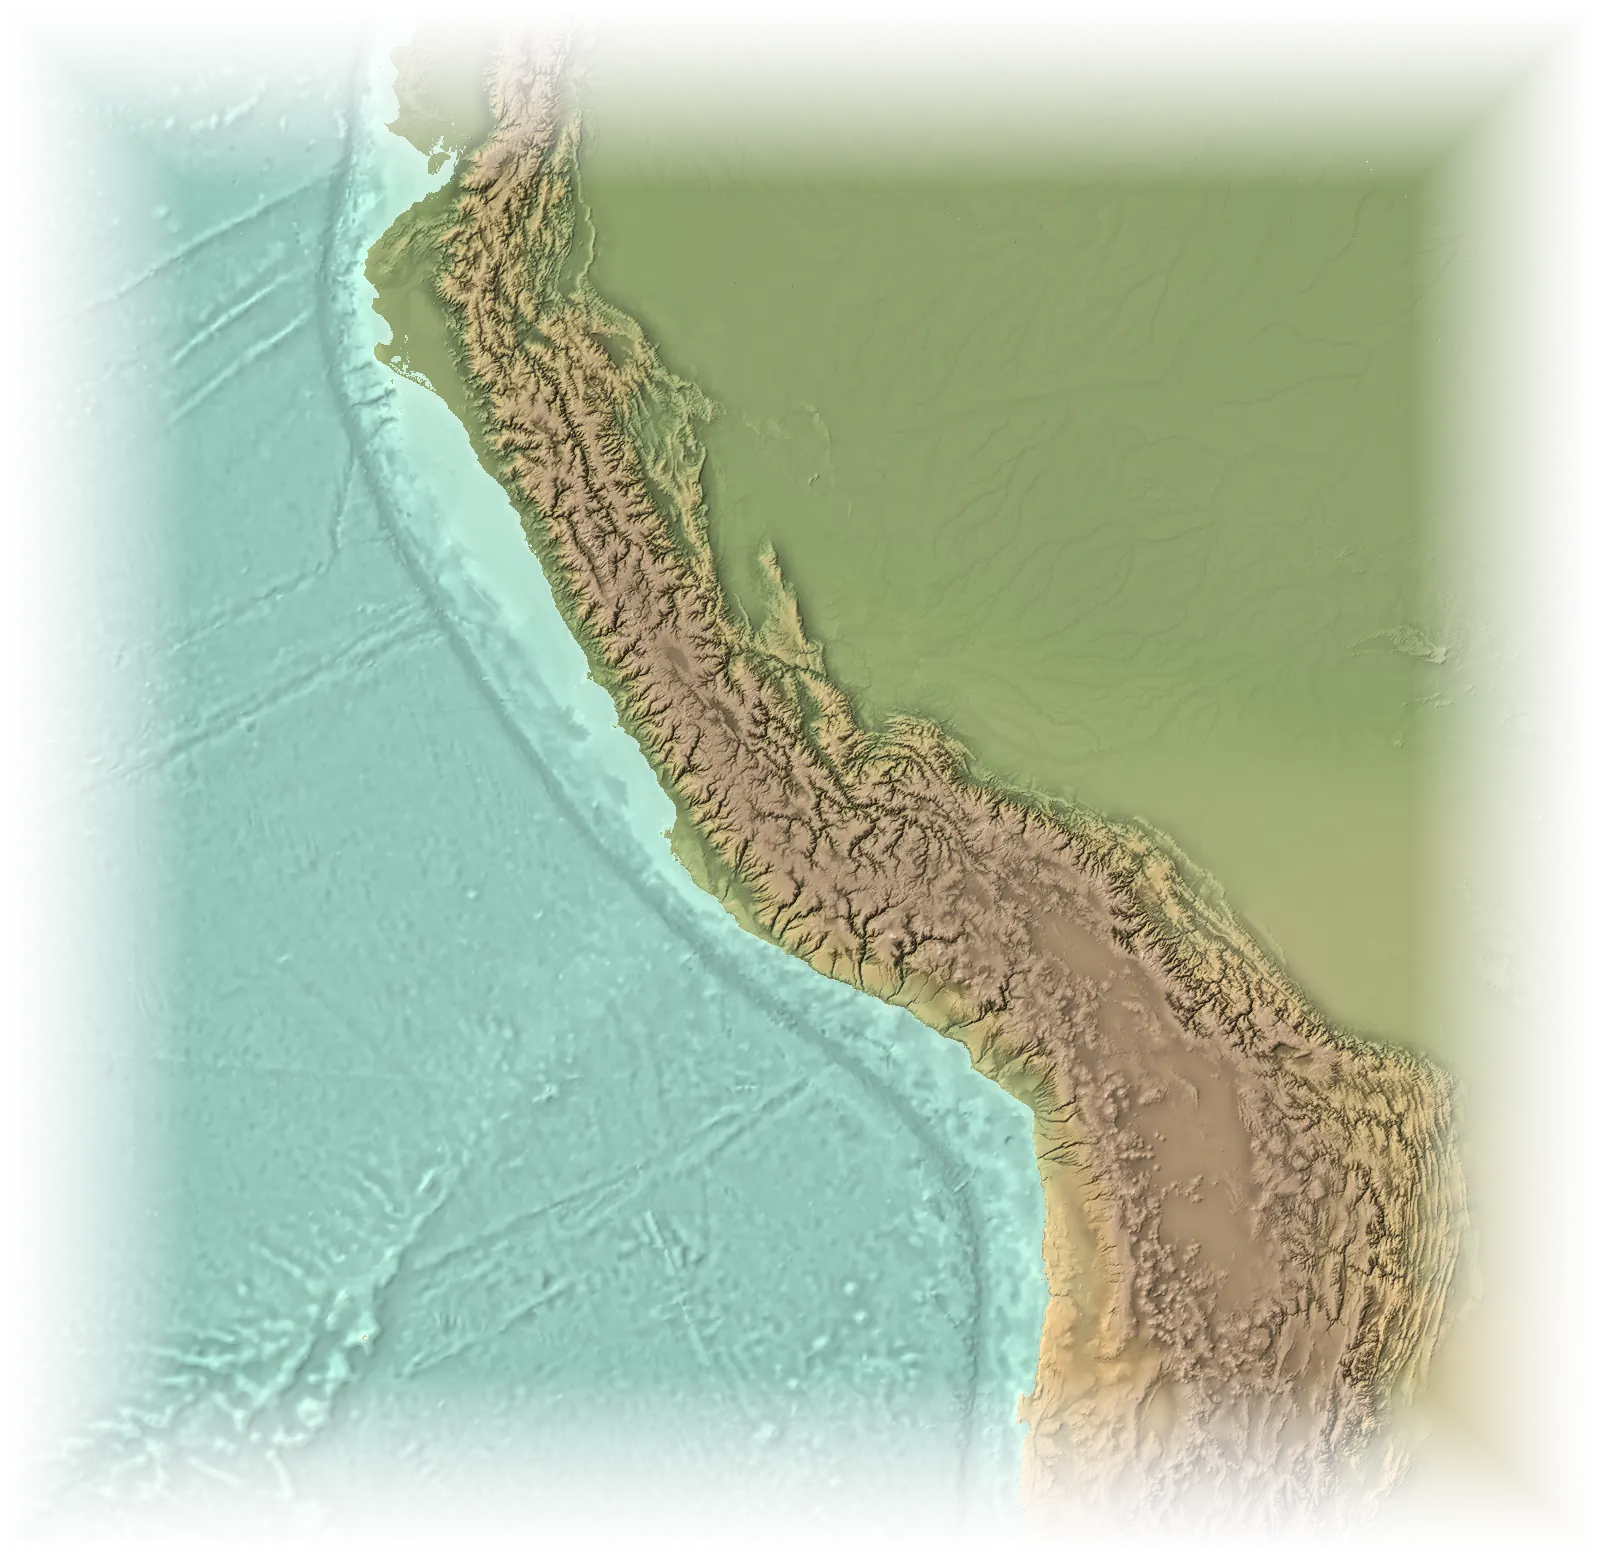
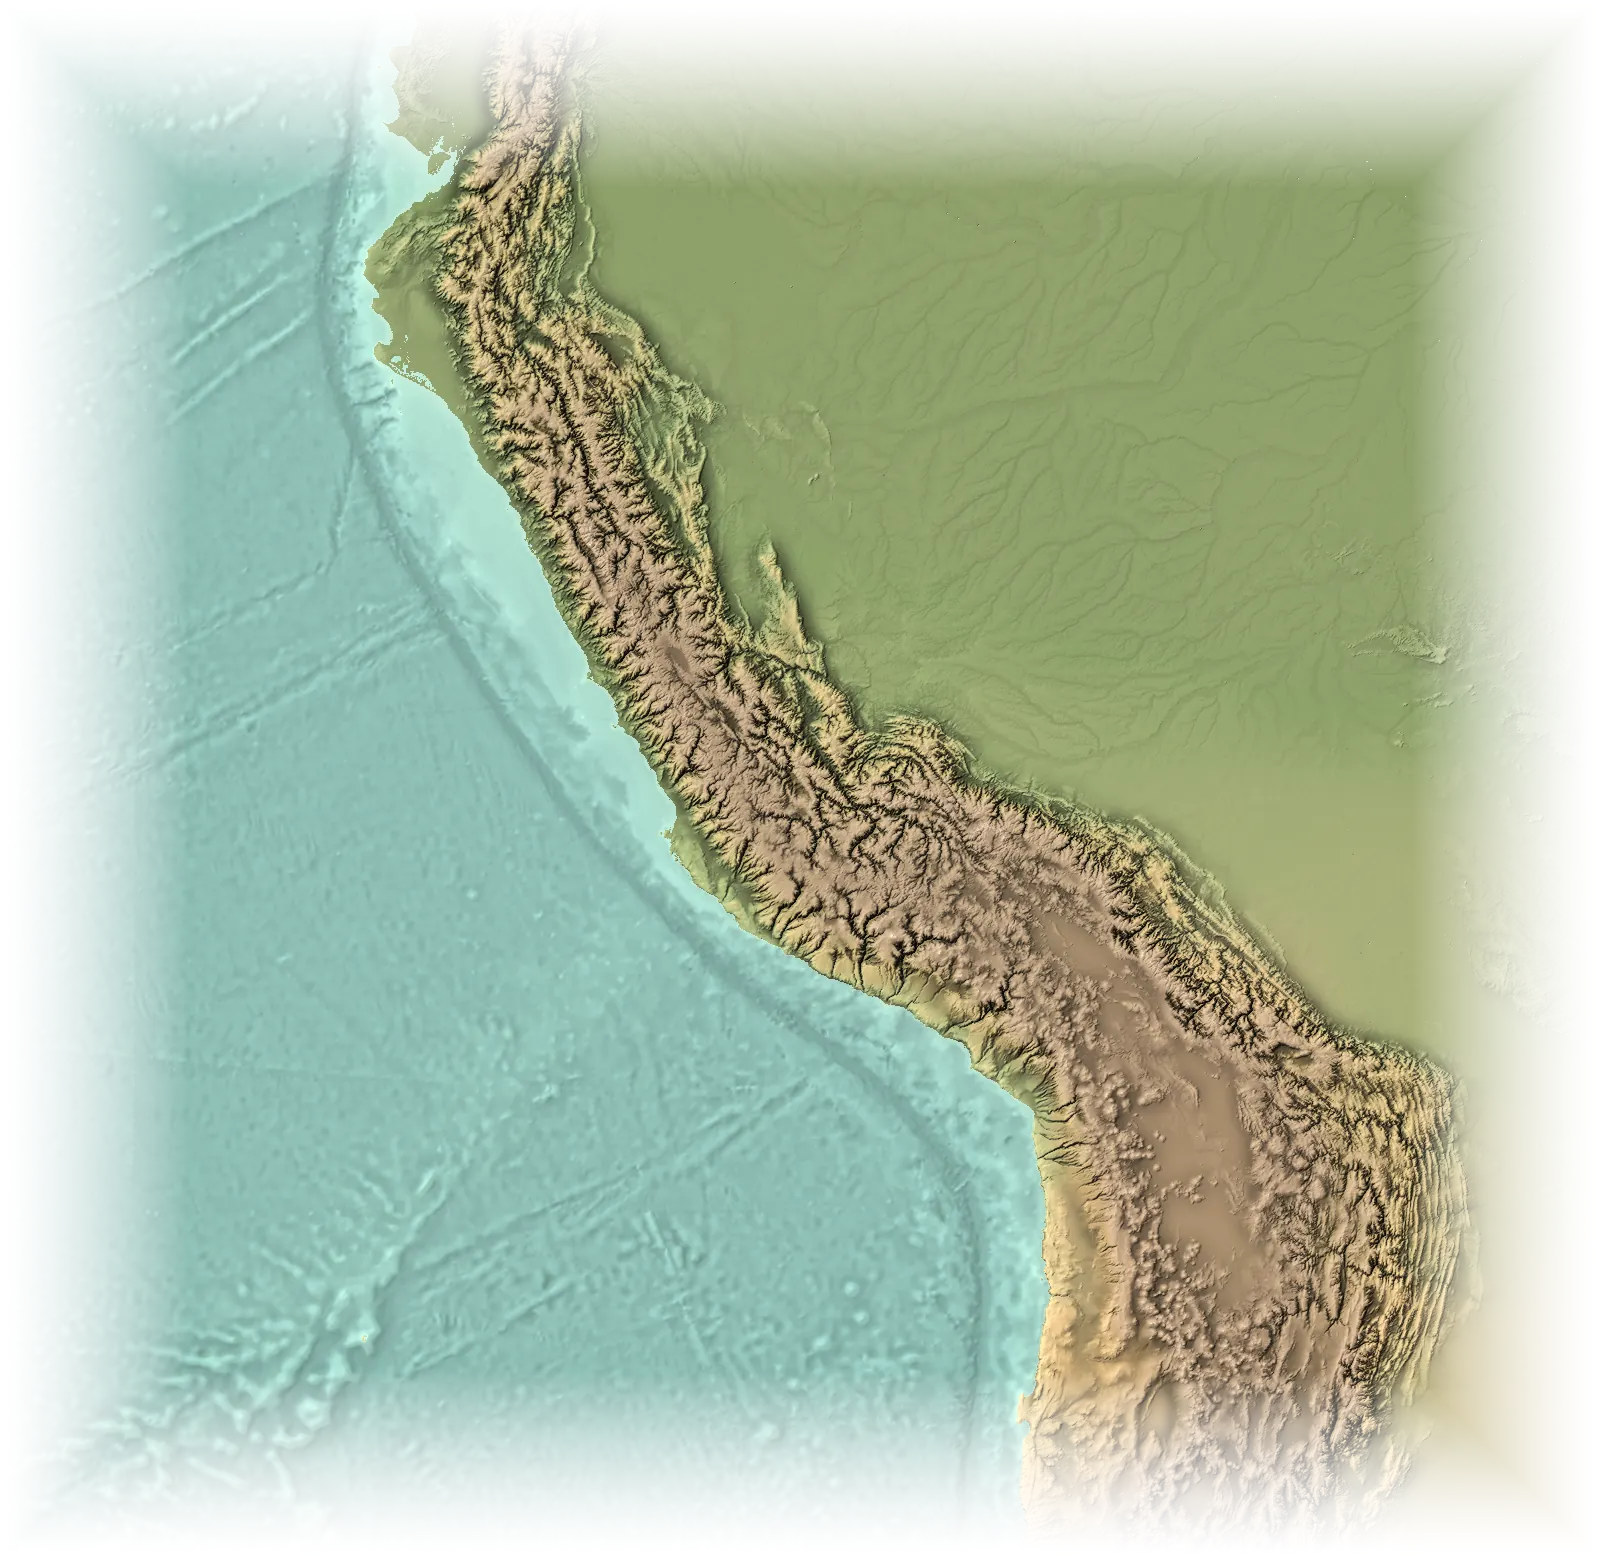
Terrain closer to the reference: crisper relief, lighter sea, clean colours
- World relief built from finer elevation data (z5, 4096 px, saved at
  3072) with stronger, carved hillshade and more local relief
- Lighter mint sea with calmer sea-floor texture
- Ice sheets stay smooth and bright
- No dusk tint, tilt-shift blur or heavy vignette over the map, so the
  colours read as clean as the printed reference; softer header shade

Claude-Session: https://claude.ai/code/session_01KVdNw979WxCLGLb6ytawBs

diff --git a/public/map.js b/public/map.js
@@ -88,7 +88,7 @@ const IMG={ocean:null,land1:null,land3:null,crop:{}};let RELIEF={};
 /* Map colours. One look ships at a time; its relief images live in data/looks/<dir>/ (build with tools/build_relief.py <dir>).
    satellite: natural, muted land on one flat, calm ocean colour (the client's reference: a "satellite map, flat ocean" poster).
    vivid:     jade, saffron and ultramarine with a depth-shaded sea. To switch back: LOOK=LOOKS.vivid and restore data/looks/vivid from git. */
-const LOOKS={relief:{dir:'relief',flat:false,sun:'255,246,226',sunA:.22,vig:'20,70,72',sea:['#bde8d6','#a2d1c4'],shade:'16,66,64',shadeK:1.5,shadeLen:1.6,shimmer:.12,
+const LOOKS={relief:{dir:'relief',flat:false,calm:true,sun:'255,248,232',sunA:.1,vig:'30,80,78',vigA:.07,sea:['#c4eedb','#a6d5c9'],shade:'14,70,66',shadeK:1.7,shadeLen:1.7,shimmer:.07,
                coast:'rgba(236,255,247,.5)',label:'rgba(58,108,110,.72)',land:'rgba(78,62,40,.5)'},
              satellite:{dir:'satellite',flat:true,sun:'255,236,205',sunA:.3,vig:'4,12,26',sea:['#1c3a54','#1c3a54'],shade:'0,6,18',shimmer:.1},
              vivid:{dir:'vivid',flat:false,sun:'255,214,140',sunA:.55,vig:'10,30,90',sea:['#36dcd6','#0f78c4'],shade:'6,28,80',shimmer:.22}};
@@ -144,7 +144,7 @@ function drawStatic(){
   omask.width=W;omask.height=H;mctx.setTransform(V.k,0,0,V.k,W/2-V.x*V.k,H/2-V.y*V.k);mctx.fillStyle='#000';mctx.fill(clipPath);
   // depth of field: when you are inside a place, the top and bottom of the view soften like a tilt-shift photo
   let near=0;for(const d of DEST)near=Math.max(near,ramp(V.k/fitK(d.id),.45,.8)*onScreen(d.id));
-  dofOn=near>.05&&!ptrs.size&&!anim&&!reduce;
+  dofOn=!LOOK.calm&&near>.05&&!ptrs.size&&!anim&&!reduce;
   if(dofOn){dof.width=W*DPR;dof.height=H*DPR;dctx.setTransform(1,0,0,1,0,0);dctx.filter=`blur(${(W<760?2.2:3)*DPR}px)`;dctx.drawImage(stat,0,0);dctx.filter='none';
     dctx.globalCompositeOperation='destination-in';const gm=dctx.createLinearGradient(0,0,0,H*DPR);
     gm.addColorStop(0,`rgba(0,0,0,${near})`);gm.addColorStop(.26,'rgba(0,0,0,0)');gm.addColorStop(.74,'rgba(0,0,0,0)');gm.addColorStop(1,`rgba(0,0,0,${near})`);
@@ -186,10 +186,10 @@ function render(){
   ctx.globalCompositeOperation='soft-light';
   const sun=ctx.createRadialGradient(W*.12,-H*.15,0,W*.12,-H*.15,Math.max(W,H)*1.1);sun.addColorStop(0,`rgba(${L.sun},${L.sunA})`);sun.addColorStop(1,`rgba(${L.sun},0)`);ctx.fillStyle=sun;ctx.fillRect(0,0,W,H);
   ctx.globalCompositeOperation='source-over';
-  const vg0=ctx.createRadialGradient(W/2,H*.55,Math.min(W,H)*.45,W/2,H*.55,Math.max(W,H)*.85);vg0.addColorStop(0,`rgba(${L.vig},0)`);vg0.addColorStop(1,`rgba(${L.vig},${L.flat?.14:.22})`);ctx.fillStyle=vg0;ctx.fillRect(0,0,W,H);
+  const vg0=ctx.createRadialGradient(W/2,H*.55,Math.min(W,H)*.45,W/2,H*.55,Math.max(W,H)*.85);vg0.addColorStop(0,`rgba(${L.vig},0)`);vg0.addColorStop(1,`rgba(${L.vig},${L.vigA??(L.flat?.14:.22)})`);ctx.fillStyle=vg0;ctx.fillRect(0,0,W,H);
   // dusk, so the journey can glow
   let dusk=0;for(const d of DEST)dusk=Math.max(dusk,starAlpha(d.id)*onScreen(d.id));
-  if(dusk>0&&!LOOK.flat){ctx.fillStyle=`rgba(18,28,58,${.16*dusk})`;ctx.fillRect(0,0,W,H);
+  if(dusk>0&&!LOOK.flat&&!LOOK.calm){ctx.fillStyle=`rgba(18,28,58,${.16*dusk})`;ctx.fillRect(0,0,W,H);
     const vg=ctx.createRadialGradient(W/2,H/2,Math.min(W,H)*.3,W/2,H/2,Math.max(W,H)*.75);vg.addColorStop(0,'rgba(10,16,40,0)');vg.addColorStop(1,`rgba(10,16,40,${.4*dusk})`);ctx.fillStyle=vg;ctx.fillRect(0,0,W,H)}
   // journeys, wild things and place markers; labels are placed so they never collide with each other or the page's own controls
   stopHits=[];hits=[];wildHits=[];placed=[];reserveUI();

diff --git a/public/index.html b/public/index.html
@@ -7,7 +7,7 @@
 <meta name="description" content="We help you unbucket your bucket list. Zoom out to zoom in: pick a place, see where to go, what to taste and what to take away, then go.">
 <link rel="preconnect" href="https://fonts.googleapis.com">
 <link href="https://fonts.googleapis.com/css2?family=Fraunces:opsz,wght@9..144,300;9..144,600&family=Inter:wght@400;500;600&display=swap" rel="stylesheet">
-<link rel="stylesheet" href="styles.css?v=17">
+<link rel="stylesheet" href="styles.css?v=18">
 </head>
 <body>
 
@@ -80,13 +80,13 @@
   <div class="sheet" id="sheet" role="dialog" aria-modal="true"></div>
 </aside>
 
-<script src="facts.js?v=17"></script>
-<script src="media/photos.js?v=17"></script>
-<script src="offers.js?v=17"></script>
-<script src="routes.js?v=17"></script>
-<script src="wildlife.js?v=17"></script>
-<script src="bucket.js?v=17"></script>
-<script src="app.js?v=17"></script>
-<script src="map.js?v=17"></script>
+<script src="facts.js?v=18"></script>
+<script src="media/photos.js?v=18"></script>
+<script src="offers.js?v=18"></script>
+<script src="routes.js?v=18"></script>
+<script src="wildlife.js?v=18"></script>
+<script src="bucket.js?v=18"></script>
+<script src="app.js?v=18"></script>
+<script src="map.js?v=18"></script>
 </body>
 </html>

diff --git a/public/styles.css b/public/styles.css
@@ -259,8 +259,8 @@ html,body{overflow-x:clip}
 #map:focus-visible{box-shadow:inset 0 0 0 3px rgba(255,255,255,.8)}
 /* a soft shade behind the header and headline, so words are always readable on a colourful map */
 .map-wrap::before{content:"";position:absolute;z-index:1;inset:0 0 auto;height:min(58%,420px);pointer-events:none;
- background:linear-gradient(180deg,rgba(8,44,50,.8),rgba(8,44,50,.5) 45%,rgba(8,44,50,0));transition:opacity .6s}
-.map-wrap.carded::before{opacity:.45;height:150px}
+ background:linear-gradient(180deg,rgba(8,44,50,.72),rgba(8,44,50,.38) 45%,rgba(8,44,50,0));transition:opacity .6s}
+.map-wrap.carded::before{opacity:.35;height:130px}
 .hero-copy{position:absolute;z-index:2;left:max(16px,4vw);top:clamp(92px,14vh,150px);max-width:min(560px,calc(100% - 32px));pointer-events:none;color:#fff;transition:opacity .5s,transform .5s}
 .hero-copy .eyebrow{color:#ffd9a8;opacity:1;margin-bottom:.7rem}
 .hero-copy h1{font-size:clamp(2.2rem,5.4vw,4.6rem);text-wrap:balance;text-shadow:0 2px 24px rgba(0,20,60,.5)}

diff --git a/tools/build_relief.py b/tools/build_relief.py
@@ -84,8 +84,8 @@ LOOKS = {
  # relief: the client's reference (Kuzeyoku relief wall maps): seafoam sea with visible sea-floor relief, olive/sage lowlands,
  # sand deserts, tan uplands, taupe plateaus, white ice; crisp, strong hillshade with warm light and brown-olive shade
  'relief': dict(mode='relief', dry='#e2c597', mid='#a9b07f', wet='#7d9a64', boreal='#8a9470', dune='#ead0a2', rock='#c59c6c', high='#9e8571',
-                peak='#cdc4b9', snow='#ffffff', warm='#fff2d6', cool='#3a3426', sea=['#cdf0de', '#bde8d6', '#aedccd', '#a2d1c4', '#97c6bb'],
-                sat=1.06, lift=0, tint=.35, sea_relief=.32, exag_world=16, exag_crop=1.6),
+                peak='#cdc4b9', snow='#ffffff', warm='#fff2d6', cool='#3a3426', sea=['#c4eedb', '#b3e3d3', '#a6d5c9', '#99c9be', '#8ebeb4'],
+                sat=1.08, lift=0, tint=.35, sea_relief=.2, exag_world=24, exag_crop=2.6, local=.5, world_z=5, world_sizes=[(1024, 1024), (4096, 3072)]),
  # golden hour: emerald and honey, coral light, plum shadows, turquoise lagoons, sapphire sea
  'golden': dict(dry='#f3cf86', mid='#c6d06f', wet='#3f9a5b', boreal='#2f7a5a', dune='#f0b971', rock='#c98d63', high='#e9bf9f', snow='#fff7ee',
                 warm='#ffcf8f', cool='#5b3f7d', sea=['#a8efe2', '#69d9d3', '#33b6c9', '#2584b4', '#1b5694'], sat=1.28, lift=.03, tint=.4),
@@ -145,7 +145,8 @@ def colourise(elev, lon, lat, exag, palette=None, patches=()):
         c = mix(c, hexrgb(PAL['rock']), sstep(900, 2800, elev) * .6)
         c = mix(c, hexrgb(PAL['high']), sstep(3600, 5200, elev) * .6)
     snowline = 6100 - np.maximum(0, np.abs(lat) - 33) * 140   # ~6,000 m in the Himalaya, lower towards the poles
-    c = mix(c, hexrgb(PAL['snow']), sstep(snowline - 250, snowline + 450, elev) * .95)
+    SNOW = sstep(snowline - 250, snowline + 450, elev)
+    c = mix(c, hexrgb(PAL['snow']), SNOW * .95)
     # soft sunlight from the north-west
     lat_r = np.radians(lat)
     dlon = (lon[0, 1] - lon[0, 0]) if W > 1 else 1; dlat = (lat[0, 0] - lat[1, 0]) if H > 1 else 1
@@ -165,8 +166,9 @@ def colourise(elev, lon, lat, exag, palette=None, patches=()):
     r = max(3, int(min(H, W) / 160))
     blur = smooth(elev.astype(np.float32), r)
     lr = elev - blur; sc = np.percentile(np.abs(lr[land]), 92) + 1 if land.any() else 1
-    k = k + .32 * np.tanh(lr / sc)
+    k = k + PAL.get('local', .32) * np.tanh(lr / sc)
     kk = np.clip(k, -1, 1)
+    if PAL.get('mode') == 'relief': kk = kk * (1 - .6 * sstep(.5, 1, SNOW))   # ice sheets stay smooth and bright
     if PAL.get('mode') == 'relief':
         c = c * (1 + kk[..., None] * np.where(land, np.where(kk > 0, .38, 1.05), .3)[..., None])
     else:
@@ -188,16 +190,18 @@ def colourise(elev, lon, lat, exag, palette=None, patches=()):
 def world():
     z = PAL.get('world_z', 4); n = 2 ** z
     m = mosaic(z, 0, n - 1, 0, n - 1)
-    for W in (1024, 3072):
+    for W, SAVE in PAL.get('world_sizes', [(1024, 1024), (3072, 3072)]):
         H = W // 2
         lon = np.linspace(-180 + 180 / W, 180 - 180 / W, W)[None, :].repeat(H, 0)
         lat = np.linspace(90 - 90 / H, -90 + 90 / H, H)[:, None].repeat(W, 1)
         px, py = merc_px(lon, lat, z); el = sample(m, px, py)
         el[lat < -84] = 2500  # Antarctic plateau beyond the tiles
         rgb, land = colourise(el, lon, lat, exag=PAL.get('exag_world', 9))
-        Image.fromarray(rgb).save(OUT + f'world-land-{W // 1024}k.jpg', quality=80, optimize=True, progressive=True)
-        if W == 3072:
-            Image.fromarray(rgb).resize((2048, 1024), Image.LANCZOS).save(OUT + 'world-ocean.jpg', quality=80, optimize=True, progressive=True)
+        im = Image.fromarray(rgb)
+        if SAVE != W: im = im.resize((SAVE, SAVE // 2), Image.LANCZOS)
+        im.save(OUT + f'world-land-{SAVE // 1024}k.jpg', quality=82, optimize=True, progressive=True)
+        if SAVE == 3072:
+            im.resize((2048, 1024), Image.LANCZOS).save(OUT + 'world-ocean.jpg', quality=82, optimize=True, progressive=True)
         print('world', W, 'done')
 
 LOOK_PALETTE = {'ladakh': '#c7ad86', 'rajasthan': '#dcc28f', 'morocco': '#d6b98a', 'serengeti': '#c9c07f', 'iceland': '#a9ad8e',

diff --git a/CLAUDE.md b/CLAUDE.md
@@ -25,6 +25,8 @@ Small fixes (typos, one-line tweaks) can be batched into the next deploy.
   height tints, latitude-aware snowline, NW sun). Current look: **relief**, matched to the client's reference (Kuzeyoku "Relief Style World
   Map (Flat Ocean)" wall maps): seafoam sea with soft sea-floor relief, olive/sage lowlands, sand deserts, tan uplands, taupe plateaus, white ice,
   crisp low-sun hillshade, land casting a teal shadow onto the sea, atlas lettering (continents in spaced caps, seas in italics).
+  World layer is built from z5 terrain at 4096 px and saved at 3072 (crisper). `LOOK.calm` turns off the dusk tint and tilt-shift blur and
+  keeps the vignette light: the client wants the colours clean, like the printed reference. Prices are INR (`money()` in app.js).
   Earlier looks (vivid, satellite) are in git history; `LOOKS.satellite` / `LOOKS.vivid` stay defined in map.js. Only `public/data/looks/relief/`
   ships. Rebuild with `python3 tools/build_relief.py relief` (needs tools/mapdata.json next to it).
   Rebuild with `tools/build_relief.py` (see `tools/README.md`). The user asked for a natural, Google-Earth-like feel: no drawn triangle mountains/trees.
